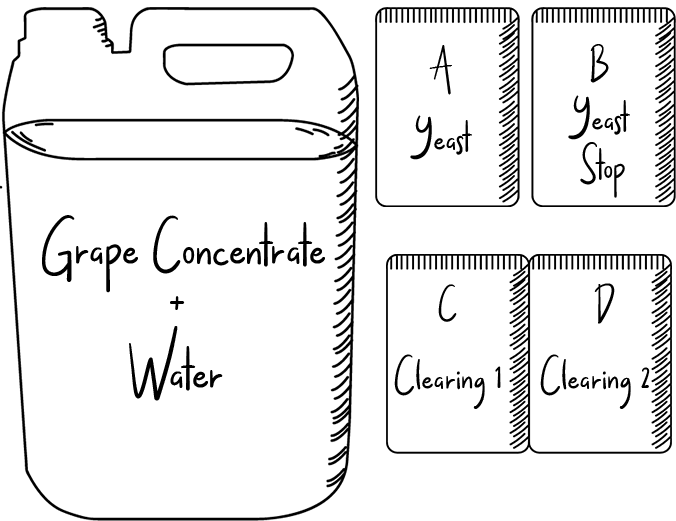
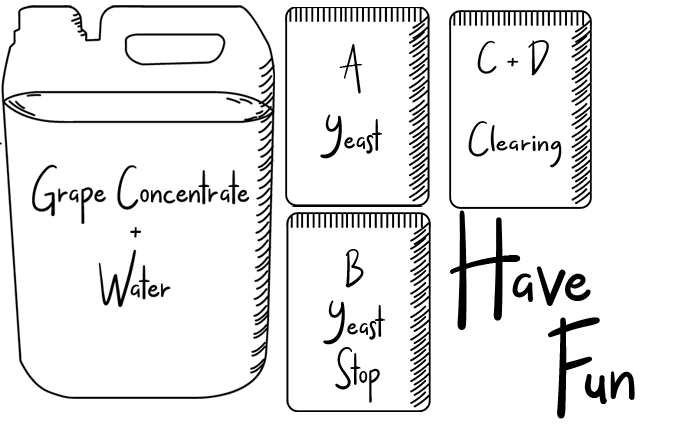
how to

diff --git a/howto.css b/howto.css
@@ -31,7 +31,9 @@
 /* --------------- Second --------------- */
 
 #second_section {
+  display: grid;
   grid-column: 1 / 4;
+  grid-template-columns: repeat(5, 1fr);
   background: beige;
   padding-left: 5vw;
   padding-right: 5vw;
@@ -39,11 +41,17 @@
 }
 
 #second_section .elem_0 {
-  display: flex;
-  justify-content: center;
+  display: grid;
+  grid-template-columns: repeat(5, 1fr);
+  grid-column: 1 / 6;
+}
+
+#second_section > h2 {
+  grid-column: 2 / 3;
 }
 
 #second_section img {
+  grid-column: 2 / 5;
   width: 100%;
 }
 
@@ -58,7 +66,6 @@
   display: grid;
   grid-column: 1 / 4;
   grid-template-columns: repeat(5, 1fr);
-  grid-template-rows: 100px 1fr 1fr;
   background: #ffecde;
   padding-top: 2vw;
   margin-bottom: 0;
@@ -160,7 +167,6 @@
   }
 
   #third_section .col_video {
-    flex-wrap: wrap;
     grid-column: 1 / 6;
     grid-row: 3 / 4;
     margin: 0;

diff --git a/howto.html b/howto.html
@@ -68,7 +68,9 @@
         <div class="elem_1">
           <figure>
           <img src="img/how_to/dunk_tegnet.png" alt="Tegnet 5 liter dunk">
-          <figcaption> <h2>Step 1</h2></figcaption>
+          <figcaption> 
+            <h2>Step 1</h2>
+          </figcaption>
         </figure>
           <p>
             You get a plastic jerrycan, with 250 ml of grape concentrate.<br> 
